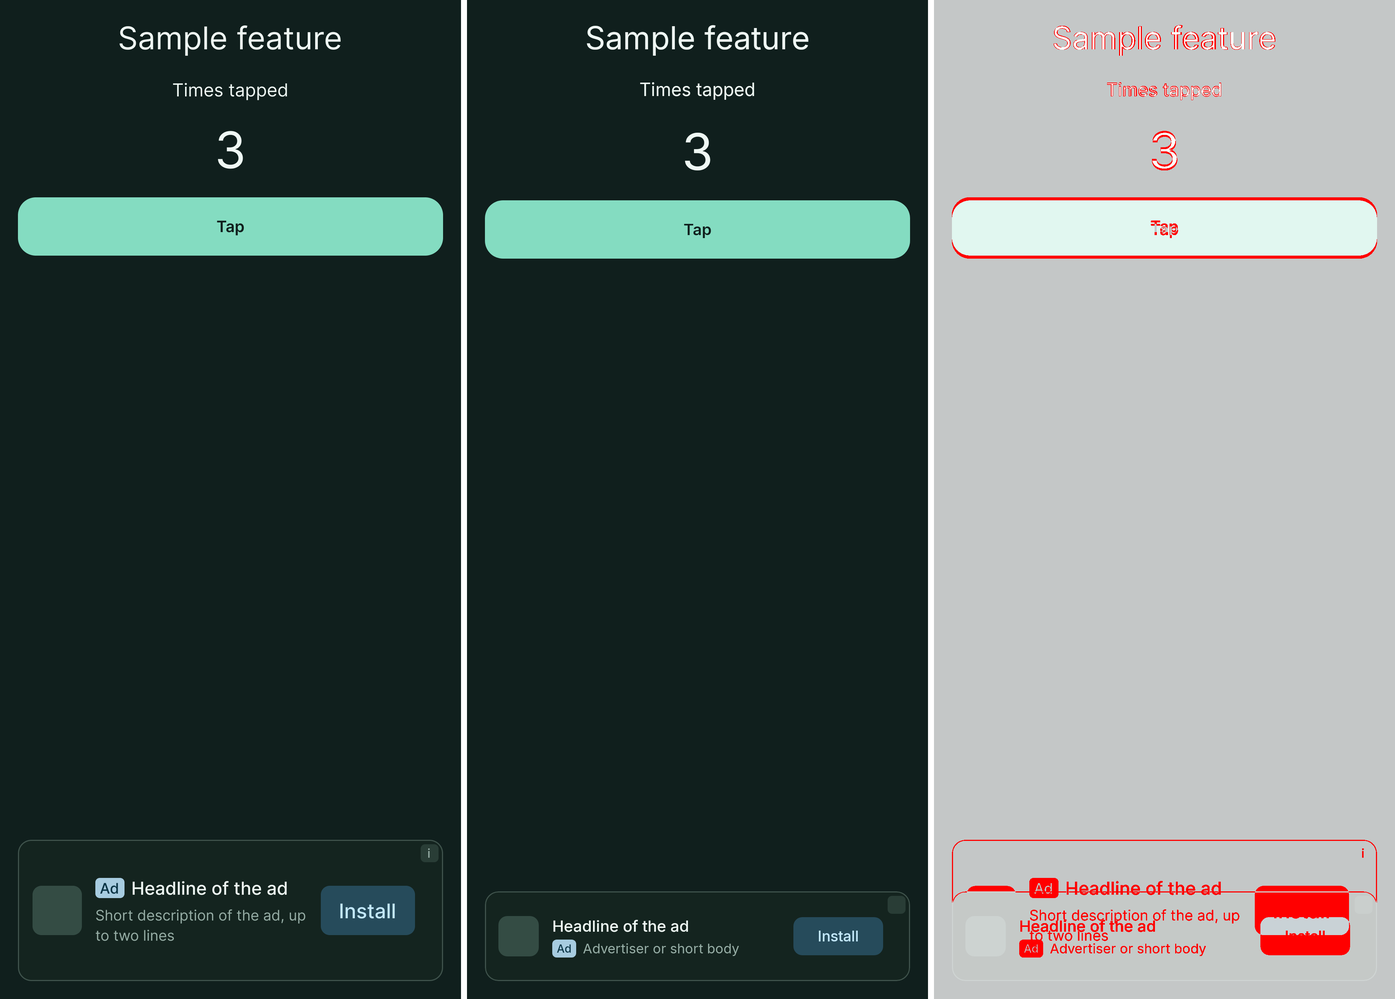
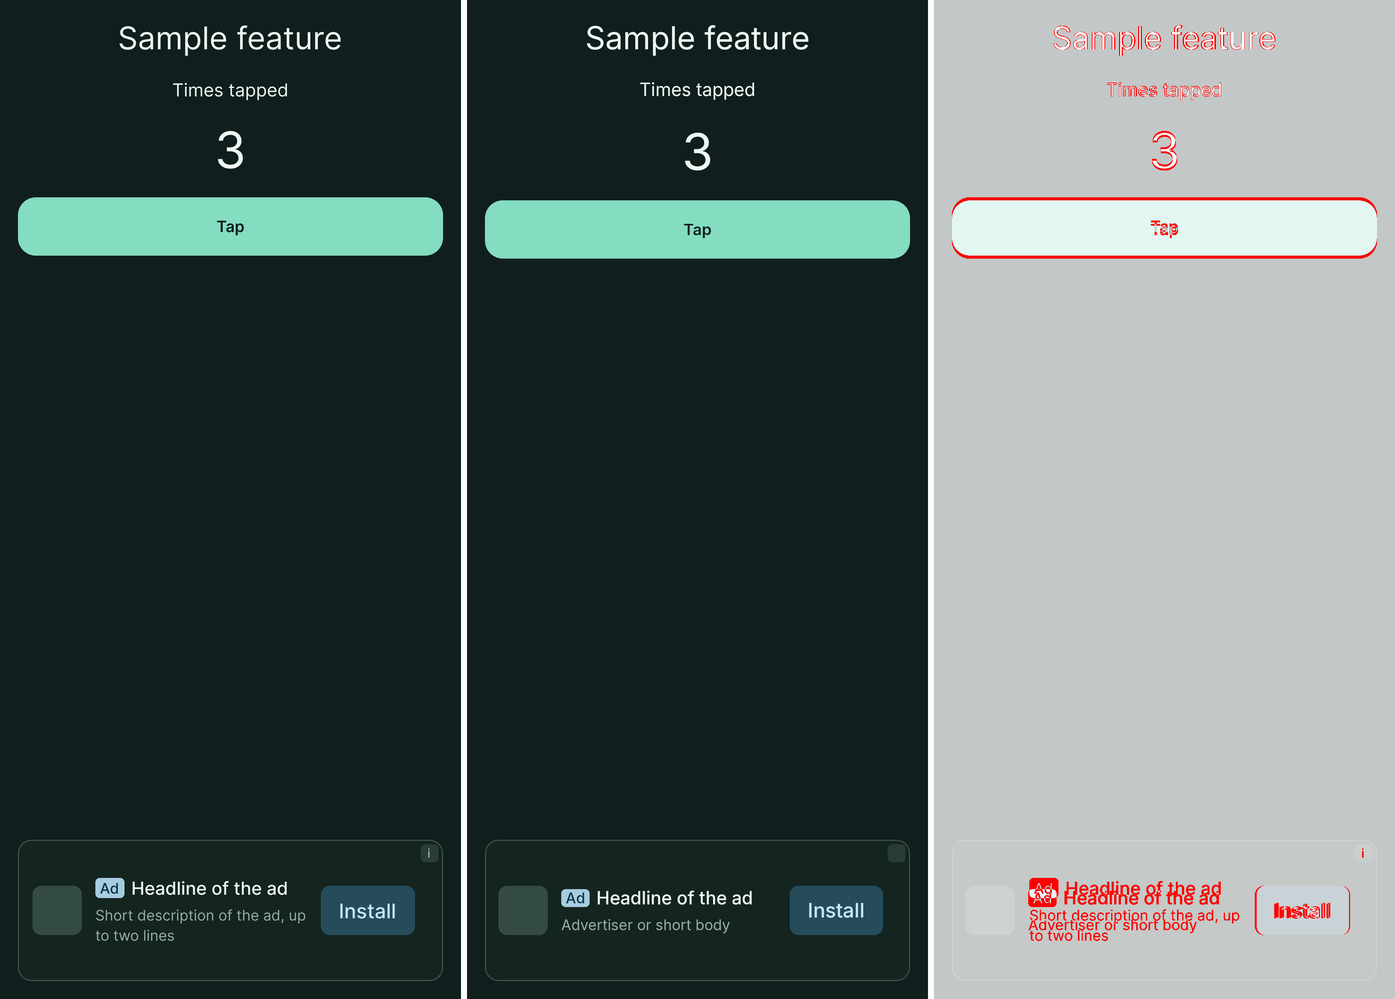
T-065: tài liệu và ảnh so sánh thiết kế
README thiết kế (bảng ánh xạ, hai quy tắc ngoài thiết kế, kết quả so
ảnh), ads-business-rules.md (O-08, bảng 5.7), ads-guide.md (đoạn mẫu
nativeReservation(), bảng native); chín ảnh so sánh trong review/.

diff --git a/docs/features/ads/design/README.md b/docs/features/ads/design/README.md
@@ -81,22 +81,23 @@ Chữ của màn hình xem thử chỉ ở staging, tiếng Anh, vẫn đặt tr
 
 | Phần tử trên thiết kế | Thành phần trong code | Màu (vai trò) | Kiểu chữ | Khoảng cách |
 | --- | --- | --- | --- | --- |
-| Khung native small, medium, thu gọn | composable native của `:core:ads` (T-010) | nền `surfaceContainerLow`, viền 1 dp `outlineVariant` | | bo `MaterialTheme.shapes.medium` (12 dp); lề 12 dp. Thẻ ở bước và lớp thu gọn 250 dp ở cỡ chữ 1.0, cao thêm khi media chạm 120 dp (chữ lớn; T-045) |
-| Nhãn "Ad" | trong composable native, đầu dòng mô tả dưới tiêu đề | nền `tertiary`, chữ `onTertiary` | `labelSmall` (small: cỡ 10 sp) | bo 4 dp, lề ngang 4 dp |
-| Tiêu đề quảng cáo | asset headline | `onSurface` | `titleSmall` (small, medium, đầy đủ), `titleMedium` (toàn màn hình) | |
-| Nhà quảng cáo, mô tả | asset advertiser, body | `onSurfaceVariant` | `bodySmall`, `bodyMedium` | |
-| CTA quảng cáo | asset call to action | nền `tertiaryContainer`, chữ `onTertiaryContainer` | `labelLarge` (small: cỡ 13 sp; medium `cta_large`: 17 sp) | cao 34 dp ở small, 44 dp ở medium (56 dp khi `cta_large`), 36 dp ở đầy đủ và thẻ dọc, 52 dp ở toàn màn hình; bo 8 dp. Số trên là ở cỡ chữ 1.0; chữ lớn thì CTA cao vừa một dòng chữ (T-045) |
-| Icon quảng cáo | asset icon | | | 36 dp ở small, 40 dp ở medium và đầy đủ, 48 dp ở toàn màn hình; bo 8 dp. Đầu quảng cáo của toàn màn hình 48 dp ở cỡ chữ 1.0, cao theo chữ khi chữ lớn (nhãn "Ad" không bị cắt; T-045) |
-| Media | `MediaView` | nền chờ `surfaceContainer` | | ít nhất 120 x 120 dp; medium cao 196 dp, đầy đủ 200 dp ở cỡ chữ 1.0, lớp thu gọn lấp phần còn lại (134 dp). Khi chữ lớn (cỡ chữ hệ thống), media co trước, không dưới 120 dp: các phần khác giữ cỡ, thẻ giữ chiều cao; chỉ khi media đã chạm 120 dp thì thẻ cao thêm |
-| AdChoices | do SDK vẽ, góc trên phải (lớp thu gọn: góc trên trái) | | | không đè, không vẽ lại |
-| Nút thu gọn | trong lớp thu gọn của thanh đáy | nền `scrim` độ mờ 40%, icon trắng (ngoại lệ có tên `CollapseIconTint`, plan T-030, câu hỏi 8) | | vẽ 32 dp tròn cách góc trên phải 4 dp, icon 20 dp; vùng chạm 48 dp do Compose tự nới |
+| Khung native small, medium, thu gọn | composable native của `:core:ads` (T-010) | nền `surfaceContainerLow`, viền 1 dp `outlineVariant` | | bo `MaterialTheme.shapes.medium` (12 dp); lề 12 dp. Native nhỏ cao theo bề rộng màn hình (90 dp ở 320 dp tới 200 dp ở 600 dp; 126 dp ở 411 dp), medium theo chiều cao màn hình (320 dp ở 640 dp tới 400 dp ở 891 dp), một hàm cho thẻ, khung chờ và khoảng chừa (T-065). Lớp thu gọn = vùng ảnh nội suy theo bề rộng (160 tới 200 dp) + nội dung của native nhỏ: 299 dp ở 411 dp, không cao thêm khi chữ lớn. Thẻ ở bước 250 dp ở cỡ chữ 1.0, cao thêm khi media chạm 120 dp (chữ lớn; T-045) |
+| Nhãn "Ad" | trong composable native; small, medium và lớp thu gọn: đứng trước tiêu đề cùng hàng; thẻ ở bước, đầy đủ: đầu dòng dưới tiêu đề | nền `tertiary`, chữ `onTertiary` | `labelSmall` (small, medium: cỡ 13 sp, chiều cao dòng giữ của `labelSmall`) | bo 4 dp, lề ngang 4 dp, cách tiêu đề 6 dp |
+| Tiêu đề quảng cáo | asset headline | `onSurface` | small, medium: 16/22 sp, đậm 500 (hằng riêng); `titleSmall` (đầy đủ), `titleMedium` (toàn màn hình) | |
+| Nhà quảng cáo, mô tả | asset advertiser, body | `onSurfaceVariant` | small (dòng dưới tiêu đề: nhà quảng cáo, không có thì mô tả, tối đa 2 dòng) và nhà quảng cáo của medium: 13/18 sp; mô tả của medium `bodyMedium` | small: dòng dưới cách hàng tiêu đề 4 dp |
+| CTA quảng cáo | asset call to action | nền `tertiaryContainer`, chữ `onTertiaryContainer` | `labelLarge` (small, medium: cỡ 18 sp; medium `cta_large`: 17 sp) | cao 44 dp ở small (rộng theo chữ, 80 tới 120 dp) và medium (56 dp khi `cta_large`), 36 dp ở đầy đủ và thẻ dọc, 52 dp ở toàn màn hình; bo 8 dp. Số trên là ở cỡ chữ 1.0; chữ lớn thì CTA cao vừa một dòng chữ (T-045) |
+| Icon quảng cáo | asset icon | | | 44 dp ở small và medium, 40 dp ở đầy đủ, 48 dp ở toàn màn hình; bo 8 dp. Đầu quảng cáo của toàn màn hình 48 dp ở cỡ chữ 1.0, cao theo chữ khi chữ lớn (nhãn "Ad" không bị cắt; T-045) |
+| Media | `MediaView` | nền chờ `surfaceContainer` | | ít nhất 120 x 120 dp; medium lấp phần còn lại (182 dp trong thẻ 400 dp, 170 dp khi `cta_large`), đầy đủ 200 dp ở cỡ chữ 1.0, lớp thu gọn lấp vùng ảnh trừ lề 12 dp (161 dp ở 411 dp). Khi chữ lớn (cỡ chữ hệ thống), media co trước, không dưới 120 dp: các phần khác giữ cỡ, thẻ giữ chiều cao; chỉ khi media đã chạm 120 dp thì thẻ cao thêm (medium ở màn 891 dp, cỡ chữ 2.0: 406 dp, 418 dp khi `cta_large`) |
+| AdChoices | do SDK vẽ, góc trên phải (cả lớp thu gọn) | | | không đè, không vẽ lại |
+| Nút thu gọn | trong lớp thu gọn của thanh đáy | nền `scrim` độ mờ 40%, icon trắng (ngoại lệ có tên `CollapseIconTint`, plan T-030, câu hỏi 8) | | vẽ 27 dp tròn tại (4, 4) góc trên trái, icon 17 dp; vùng chạm 48 dp do Compose tự nới |
 | Nút đóng toàn màn hình | trong `NativeFullScreenAdScreen` | nền `surfaceContainerHigh`, icon `onSurface` | | vẽ 48 dp tròn tại (16, 24), vùng chạm bằng khung vẽ, góc trên trái; vòng đếm ngược cùng khung (T-053, ADR-0038; ảnh thiết kế vẽ 48 dp từ T-064) |
-| Trạng thái đang tải | trong composable native | khối `surfaceContainerHighest` | | giữ đúng chiều cao của quảng cáo (small 80 dp, medium 410 dp, đầy đủ 418 dp, thẻ dọc 300 dp hay cỡ ô) |
+| Trạng thái đang tải | trong composable native | khối `surfaceContainerHighest` | | giữ đúng chiều cao của quảng cáo (small và medium theo màn hình như khung, ví dụ 126 dp và 400 dp ở 411 x 891 dp; đầy đủ 418 dp, thẻ dọc 300 dp hay cỡ ô); small: khối icon 44 dp, hai vạch, khối CTA 96 x 44 dp |
 | Nút của app | `PrimaryButton` | `primary`, `onPrimary` | `labelLarge` đậm 600 | |
 | Thẻ native ở bước của luồng (component `Native/Step`, T-032) | `NativeStepAd`, cỡ `NativeAdSize.STEP` | như khung native small, medium | tiêu đề `titleSmall` cỡ 13 sp | cao 250 dp ở cỡ chữ 1.0 (chữ lớn thì cao thêm, `NativeStepAdDefaults.height()`; T-045), lề trong 12 dp, các phần cách nhau 8 dp; media ngang lấp phần trên, icon 32 dp, CTA 36 dp rộng hết thẻ; AdChoices góc trên phải; khung chờ cùng chiều cao với thẻ |
 | Trang native ở bước của luồng (biến thể `Flow step` của `Native/FullScreen`, T-032) | `NativeFullScreenStep`, `NativeFullScreenStepContent` | như native toàn màn hình | như native toàn màn hình | không nút đóng, không đếm ngược; hàng trên 36 dp chỉ có AdChoices (media bắt đầu ở y = 76; bản sau inter ở y = 88 vì hàng nút 48 dp, T-053); không đệm vùng an toàn; CTA 52 dp; nút Tiếp của app nằm ngoài vùng của trang. Hai bố cục theo chiều cao (T-041): cột như bản sau inter khi trang cao từ 360 dp (ở cỡ chữ 1.0; media co trước, không dưới 120 dp, rồi mô tả bớt dòng), hàng ngang gọn từ 152 dp tới dưới 360 dp (lề 16 dp, media bên trái cao hết hàng; bên phải: đầu quảng cáo và ngay bên phải nó ô 36 dp chừa AdChoices, giữ góc trên phải của trang trống (T-049), rồi mô tả nếu còn chỗ, CTA ở đáy); đầu quảng cáo cao ít nhất 48 dp, lớn theo cỡ chữ. Trong lúc chờ quảng cáo: khung chờ tĩnh cùng bố cục (khối media, đầu, CTA; không chữ) |
 
-- **Số đo của bảng trên và câu cuối mục 5 là của đợt T-035 và code hiện có.** Thiết kế T-064 (mục 1) đổi số của khe đáy, lớp thu gọn và medium: nhãn "Ad" đứng trước tiêu đề, icon 44 dp, CTA 44 dp chữ 18 sp, chiều cao theo bề rộng hay chiều cao màn hình, nút thu gọn 27 dp ở góc trên trái (vùng chạm 48 dp, spec câu hỏi 48), AdChoices của lớp thu gọn ở góc trên phải. T-065 sửa bảng này cùng code.
+- **Số đo của bảng trên theo thiết kế T-064, code từ T-065.** Câu cuối mục 5 (CTA cao 36 dp) là của thẻ đầy đủ và thẻ dọc; CTA của small, medium cao 44 dp.
+- **Hai quy tắc ngoài thiết kế (plan T-065):** native nhỏ (khe đáy, khe riêng, hàng trong danh sách, nội dung của lớp thu gọn) từ cỡ chữ 1.3 các phần cách nhau 8 dp, lề phải 16 dp (tiêu đề còn chỗ cạnh CTA dài 120 dp, câu hỏi 15); từ cỡ chữ 1.5 nhãn "Ad" xuống đầu dòng mô tả và dòng đó còn 1 dòng (câu hỏi 8, 14). Medium ở khung thấp (thẻ dưới 350 dp, màn cao tới 732 dp): mô tả 1 dòng, các phần cách nhau 8 dp, nên thẻ 320 dp giữ media 134 dp (câu hỏi 7).
 - **Giá trị "ngoài hệ thống" trong `context/`:** khoảng cách 2, 6 và 12 dp bên trong quảng cáo (giữa tiêu đề và dòng nhà quảng cáo, giữa nhãn "Ad" và chữ, lề trong khung). Plan T-010 quyết: giữ làm hằng số riêng của composable native trong `:core:ads` (kích thước của một component, như `MinHeight` của `PrimaryButton`), không thêm token.
 - **Thành phần mới cần thêm vào hệ thống thiết kế:** các composable native nằm ở `:core:ads` (ADR-0022), dùng token của `:core:designsystem`; không thêm thành phần vào `:core:designsystem`.
 
@@ -208,3 +209,17 @@ Thiết kế vẽ lại theo bề rộng màn hình (T-064, 2026-11-14), so vớ
 | `AdGalleryScreen_collapsible-expanded_light` | 5.4% | Lớp mở 299 dp so với 250 dp; nút thu gọn 27 dp góc trên trái, AdChoices góc trên phải (code ngược lại) |
 | `AdGalleryScreen_collapsible-collapsed_light` | 2.4% | Khe đáy 126 dp so với 80 dp |
 | `NativeFullScreenAdScreen_default_light`, `_dark` | 0.5%, 0.5% | Nút đóng 48 dp tại (16, 24) và media từ y = 88 nay trùng code (T-053); còn khác ở chữ "i" của AdChoices giả |
+
+Kích thước native theo JBase (T-065, 2026-11-16), so với thiết kế T-064. Chạy thẳng `scripts/design-compare/DesignCompare.java` cho `feature/sample` và `app` như T-027, chép chín ảnh so sánh vào `review/`; `review/summary.md` không đổi. Bảng T-064 ngay trên là lệch dự kiến trước khi có code, nay không còn.
+
+| Màn hình | Điểm ảnh khác | Nhận xét |
+| --- | --- | --- |
+| `SampleScreen_ready_light`, `_dark` | 1.8%, 1.8% | Khe đáy 126 dp ở y 749 tới 875, icon 44 dp, nhãn "Ad" trước tiêu đề 16 sp, CTA 44 dp chữ 18 sp trùng thiết kế. Khác: dòng dưới tiêu đề là nhà quảng cáo của quảng cáo giả ("Advertiser or short body", 1 dòng) thay mô tả 2 dòng của thiết kế (plan T-065, câu hỏi 9), nên hàng tiêu đề thấp hơn khoảng 9 dp vì cột chữ căn giữa; nút "Tap" thấp hơn khoảng 2 dp như T-027; ô AdChoices giả không có chữ "i" |
+| `SampleScreen_ready_light_unfolded` | 1.2% | Ảnh chuẩn mới: khe đáy 200 dp ở màn 673 dp trùng thiết kế; khác ở dòng dưới tiêu đề và chữ "i" như trên |
+| `SampleScreen_ad-loading_light` | 0.9% | Khung chờ 126 dp: khối icon 44 dp, hai vạch, khối CTA 96 x 44 dp trùng thiết kế |
+| `AdGalleryScreen_default_light`, `_dark` | 2.7%, 2.7% | Small 126 dp, medium 400 dp (đầu thẻ 60 dp, media từ y = 383, CTA 44 dp chữ 18 sp) và các nút bên dưới trùng vị trí. Khác: quảng cáo giả của màn xem thử không có điểm sao (hàng sao giữ 16 dp, không vẽ sao), media giả không có nền mờ và nhãn "Media", dòng dưới tiêu đề của small như trên; hàng nút "In-list ads", "Collapsible ad" ngoài thiết kế như T-014 |
+| `AdGalleryScreen_inlist_light` | 2.0% | Dòng small 158 dp, dòng medium 432 dp đúng vị trí; khác ở quảng cáo giả như trên |
+| `AdGalleryScreen_collapsible-expanded_light` | 1.2% | Lớp mở 299 dp ở y 576 tới 875: vùng ảnh 173 dp (MediaView 161 dp), nội dung như native nhỏ 126 dp, nút thu gọn 27 dp tại (4, 4) góc trên trái, AdChoices góc trên phải trùng thiết kế. Khác: dòng dưới tiêu đề "Advertiser" thay mô tả 2 dòng, ô AdChoices giả không có chữ "i", media giả không có nhãn "Media"; media lệch khoảng 1 dp vì lề tính từ mép ngoài như các native khác |
+| `AdGalleryScreen_collapsible-collapsed_light` | 1.2% | Khe đáy 126 dp ở y 749 tới 875 trùng thiết kế; khác ở dòng dưới tiêu đề và chữ "i" như trên |
+
+Lệch theo chiều cao của khe đáy, lớp thu gọn và medium đều dưới 4 dp (mục 7 của plan T-065).

diff --git a/docs/ops/ads-business-rules.md b/docs/ops/ads-business-rules.md
@@ -217,12 +217,12 @@ Kích thước theo layout của AdsKit (`src/main/res/layout/adskit_native_*.xm
 
 | Biến thể | Nguồn quảng cáo | Kích thước chính | Làm mới | AdsKit |
 | --- | --- | --- | --- | --- |
-| Native nhỏ ở khe đáy | Kho nạp sẵn `native_small` theo mã đơn vị, dùng chung với khe native nhỏ đứng riêng cùng mã (O-01) | Theo layout JBase, cao theo bề rộng màn hình: 90 dp ở bề rộng 320 dp trở xuống, 200 dp ở 600 dp trở lên, tăng đều ở giữa (D-02); icon 44 dp; tiêu đề 16 sp; mô tả 13 sp; nhãn "Ad" 13 sp trước tiêu đề; CTA cao 44 dp, chữ 18 sp; không có media | Thay nội dung tại chỗ theo `time_reload_native_small`, mặc định 60 giây; nhịp đầu cộng 500 ms khi có lớp thu gọn; chỉ khi lớp thu gọn không mở (D-07); chỉ ở foreground; qua cổng đồng ý; lỗi thì giữ quảng cáo cũ | `M/compose/NativeAdSmall.kt:41-149`, `res/layout/adskit_native_small.xml` |
+| Native nhỏ ở khe đáy | Kho nạp sẵn `native_small` theo mã đơn vị, dùng chung với khe native nhỏ đứng riêng cùng mã (O-01) | Theo layout JBase, cao theo bề rộng màn hình: 90 dp ở bề rộng 320 dp trở xuống, 200 dp ở 600 dp trở lên, tăng đều ở giữa (D-02); icon 44 dp; tiêu đề 16 sp; mô tả 13 sp; nhãn "Ad" 13 sp trước tiêu đề; CTA cao 44 dp, chữ 18 sp, rộng theo chữ, tối đa 120 dp; không có media. Chữ lớn: từ cỡ chữ 1.3 các phần cách nhau 8 dp, lề phải 16 dp; từ cỡ chữ 1.5 nhãn "Ad" ở đầu dòng mô tả, dòng mô tả 1 dòng; khe giữ chiều cao | Thay nội dung tại chỗ theo `time_reload_native_small`, mặc định 60 giây; nhịp đầu cộng 500 ms khi có lớp thu gọn; chỉ khi lớp thu gọn không mở (D-07); chỉ ở foreground; qua cổng đồng ý; lỗi thì giữ quảng cáo cũ | `M/compose/NativeAdSmall.kt:41-149`, `res/layout/adskit_native_small.xml` |
 | Native thu gọn (lớp nổi) | Kho nạp sẵn `native_collap` theo mã đơn vị, dùng chung mọi thanh đáy cùng mã (một quảng cáo đang hiện và một quảng cáo của kho) | Vùng ảnh cao 160 dp ở bề rộng màn hình 320 dp tới 200 dp ở 600 dp, ảnh lấp vùng (spec `ads`, câu hỏi 64), đặt trên phần nội dung giống hệt khe đáy; nút thu gọn vẽ 27 dp (vùng chạm 48 dp) ở góc trên trái, AdChoices ở góc trên phải | Theo `time_reload_collap_ad`, mặc định 60 giây (mục 5.8) | `M/compose/NativeAdCollap.kt:33-247`, `res/layout/adskit_native_collap.xml` |
 | Native đầy đủ | Khe `native_full` | Media cao 200 dp; icon 40 dp; tiêu đề 14 sp; cao theo nội dung | Không | `M/compose/NativeAdFull.kt`, `res/layout/adskit_native_full.xml` |
 | Native toàn màn hình (bước của luồng, sau inter) | Khe `native_fullscreen` | Lấp đầy màn; icon 48 dp; tiêu đề 16 sp; CTA cao 52 dp. Bản ở bước của luồng không có nút điều khiển, app tự đặt nút Tiếp; lỗi thì không vẽ gì | Không | `M/compose/NativeAdFullscreen.kt:19-56`, `res/layout/adskit_native_fullscreen.xml` |
 | Native ở bước của luồng (`native_step`; AdsKit gọi là onboarding) | Pool `native_step`, 3 quảng cáo | Cao 250 dp; icon 32 dp; CTA cao 36 dp | Không | `M/compose/NativeAdOnboarding.kt:35-81`, `res/layout/adskit_native_onboarding.xml` |
-| Native medium | Pool `native_medium`, 3 quảng cáo | Cao 320 dp ở chiều cao màn hình 640 dp tới 400 dp ở 891 dp (spec `ads`, câu hỏi 64); icon 44 dp; CTA cao 44 dp, chữ 18 sp; giữ nền mờ sau media và hàng sao. Biến thể CTA lớn (thuộc tính `cta_large` của vị trí): CTA cao 56 dp, chữ 17 sp, không viết hoa toàn bộ. | Không | `M/compose/NativeAdMedium.kt`, `M/compose/NativeAdLayouts.kt:5-16`, `res/layout/adskit_native_medium*.xml` |
+| Native medium | Pool `native_medium`, 3 quảng cáo | Cao 320 dp ở chiều cao màn hình 640 dp tới 400 dp ở 891 dp (spec `ads`, câu hỏi 64); icon 44 dp; CTA cao 44 dp, chữ 18 sp; giữ nền mờ sau media và hàng sao. Khung thấp (thẻ dưới 350 dp): mô tả 1 dòng, các phần cách nhau 8 dp. Chữ lớn thì media co trước tới 120 dp rồi thẻ cao thêm. Biến thể CTA lớn (thuộc tính `cta_large` của vị trí): CTA cao 56 dp, chữ 17 sp, không viết hoa toàn bộ. | Không | `M/compose/NativeAdMedium.kt`, `M/compose/NativeAdLayouts.kt:5-16`, `res/layout/adskit_native_medium*.xml` |
 | Native trong tập hợp (`native_in_collection`: ô lưới, danh sách, trang của pager) | Pool `native_content`, 5 quảng cáo, xin media dọc | Thẻ dọc: media lấp phần trên; icon 32 dp; tiêu đề 13 sp; khung chờ dạng thẻ dọc | Không | `M/compose/PooledNativeAd.kt:78-186`, `res/layout/adskit_native_card_portrait.xml` |
 
 MREC thật là banner `banner_mrec` (B-08), không phải biến thể native; native medium vẫn là lựa chọn mặc định (KB-2).
@@ -238,7 +238,7 @@ Luật chung của native:
 | O-05 | **Thử lại native:** còn giữ quảng cáo thì chờ 2, 4, 8, 16, 32 rồi 60 giây với mọi mã lỗi; chưa giữ quảng cáo nào (khe, hàng trong danh sách, pool trống, native toàn màn hình) thì chờ 5, 10, 20, 40 rồi mỗi 60 giây, không bỏ cuộc. Mỗi chỗ (một khe, một hàng, một pool, native toàn màn hình của một vị trí) đếm lỗi riêng; lần lỗi kế tiếp chờ lại từ 5 giây khi nạp được, khi cả process quay lại foreground (màn của SDK che app rồi đóng, xoay màn, màn che toàn màn hình của ta đóng không tính), khi mạng về (S-24); khe và hàng còn đếm lại khi mở màn mới có chỗ đó (luồng mới). Ngoại lệ: pool không đặt lại khi mở màn mới, vì pool dùng chung qua nhiều màn và ô của lưới, danh sách bắt đầu lại mỗi lần cuộn tới; pool đếm lại khi nạp được, khi quay lại foreground, khi mạng về, khi cổng đồng ý mở lại, và khi lần lỗi chuyển giữa lúc pool giữ quảng cáo và lúc trống. Native toàn màn hình theo luật này chứ không theo F-05, không áp dịp mở màn mới. Foreground suốt 10 phút không dịp đặt lại và không có quảng cáo thì một chỗ gửi 13 yêu cầu (giới hạn 15 của KB-24). Lượt nạp của kho khe native small không tính vào giới hạn đó: kho không thử lại sau lỗi, mỗi dịp nạp chỉ gửi một yêu cầu; các dịp nạp của kho là kế hoạch nạp sẵn (S-21, S-22) và các lần xin nạp sẵn lại (`PLACEMENT_ENABLED`, `GATE_REOPENED`, mạng về S-24), activity của app resume (S-25, kể cả sau khi màn của SDK đóng), sau mỗi lần một khe lấy quảng cáo của kho (`next load`), và khi quảng cáo của kho quá 55 phút (O-04). Không gửi yêu cầu khi app ở nền (lượt tới hạn khi ở nền chờ tới lúc app hiện lại); kiểm lại cổng đồng ý ngay trước khi gửi | ads | `M/manager/NativePolicyDecisions.kt:21-33,100-101`, `M/manager/NativeAdRequester.kt:33-58`, `M/behavior/PartnerAdsConstants.kt:50-56`; spec ads, KB-24, câu hỏi 62, 63 (khác AdsKit) |
 | O-06 | Tùy chọn yêu cầu: video tắt tiếng, không có điều khiển riêng, một ảnh, media ngang (ô lưới xin media dọc) | ads | `M/manager/NativePolicyDecisions.kt:57-73` |
 | O-07 | Đặt cách co giãn ảnh **trước** khi gắn quảng cáo vào khung, để ảnh không bị cắt | ads | commit `f3947af` |
-| O-08 | Nhãn "Ad" luôn thấy được, đặt ở đầu dòng mô tả dưới tiêu đề (native nhỏ ở khe đáy: trước tiêu đề, mục 5.7); biểu tượng AdChoices do SDK ghim ở góc trên phải, kể cả lớp nổi của native thu gọn (nút thu gọn ở góc trên trái), không bị đè hay che. Hàng sao chỉ hiện khi quảng cáo có điểm thật lớn hơn 0: sao đặc làm tròn theo điểm, tối đa 5, không vẽ nửa sao | ads | A 05:240-242, `src/main/res/values/strings.xml` (`adskit_native_ad_label`) |
+| O-08 | Nhãn "Ad" luôn thấy được, đặt ở đầu dòng mô tả dưới tiêu đề (native nhỏ ở khe đáy, lớp thu gọn và medium: trước tiêu đề, mục 5.7; native nhỏ và lớp thu gọn từ cỡ chữ 1.5: ở đầu dòng mô tả, dòng đó 1 dòng); biểu tượng AdChoices do SDK ghim ở góc trên phải, kể cả lớp nổi của native thu gọn (nút thu gọn ở góc trên trái), không bị đè hay che. Hàng sao chỉ hiện khi quảng cáo có điểm thật lớn hơn 0: sao đặc làm tròn theo điểm, tối đa 5, không vẽ nửa sao | ads | A 05:240-242, `src/main/res/values/strings.xml` (`adskit_native_ad_label`) |
 | O-09 | Chuẩn bị yêu cầu native bị lỗi (kể cả SDK tự hủy giữa chừng) thì tính là một lần nạp lỗi mã 0 và thử lại theo O-05 | ads | A 05:174, `M/manager/NativeAdRequester.kt:100` |
 | O-10 | **Bị che bởi quảng cáo toàn màn hình** (cờ "đang hiện" của cổng chung, F-01): native trong màn (native nhỏ, lớp thu gọn, pool: medium, thẻ trong tập hợp, thẻ ở bước của luồng) không gửi yêu cầu, không làm mới, không thử lại, như ở nền (O-05); quảng cáo đang có giữ nguyên. Lượt đang chờ gửi đúng một lần khi màn che đóng; nhịp làm mới rơi lúc bị che thì bỏ (CL-02). Mọi đường gửi đọc một điều kiện "foreground và không bị che". Lượt nạp của chính native toàn màn hình không chờ điều kiện này (K-04). Hàng native nhỏ trong danh sách cũng theo luật này (KB-27, ADR-0045, mục 7.1) | ads | Không có (ADR-0045, mục 7.1, JBase `pauseAutoRefresh`) |
 
